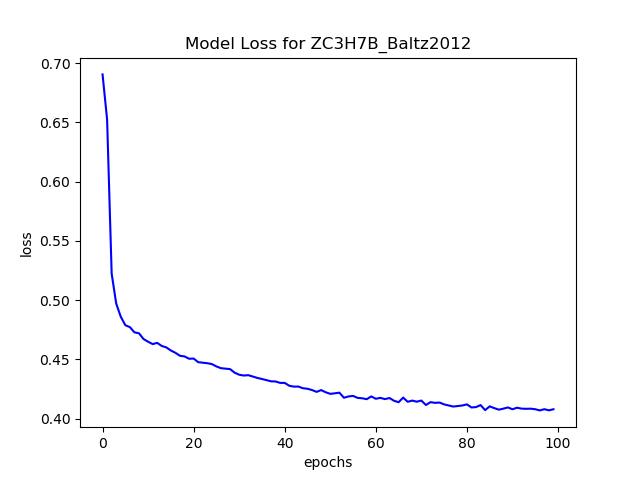
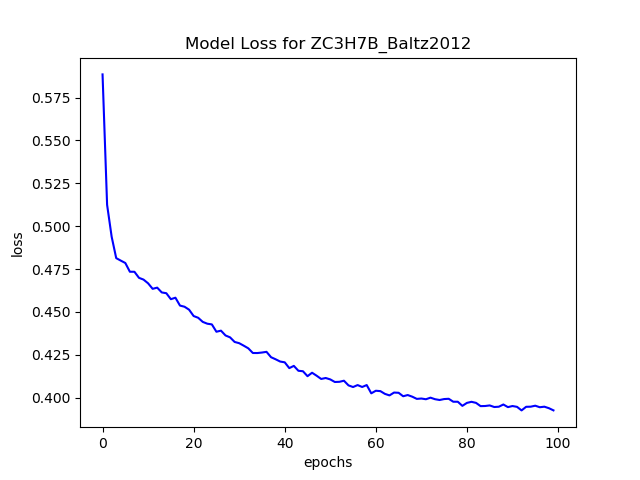
完善CNN_ss模型的train_test_epoch

diff --git a/main.py b/main.py
@@ -1117,34 +1117,59 @@ def plot_epochs(protein='all', train=True, model_type='CNN', n_epochs=100, info=
 
 
 # 用于存储所有数据集100次迭代中每次的模型参数结果，方便测试100次迭代中每次测试集的loss
-def epochs_pkl():
-    for protein in proteins:
+@cal_time
+def epochs_pkl(info=1, model_type='CNN'):
+    """
+    :param info: 指定所使用的特征信息种类
+    :param model_type: 指定使用的网络模型
+    :return:
+    """
+    for count, protein in enumerate(proteins):
         data = load_data(protein=protein, train=True)
         x_data, y_data = get_bag_data(data=data)
-        x_data = x_data[0]
-        model = CNN(nb_filter=16, num_classes=2, kernel_size=(4, 10), pool_size=(1, 3), window_size=507,
-                    hidden_size=200, stride=(1, 1), padding=0, drop=True)
-        if gpu:
+        if info == 1:
+            x_data = x_data[0]
+            model = CNN(nb_filter=16, num_classes=2, kernel_size=(4, 10), pool_size=(1, 3), window_size=507,
+                        hidden_size=200, stride=(1, 1), padding=0, drop=True)
             model = model.cuda()
 
-        x_data = np.array(x_data)
-        y_data = np.array(y_data)
+            train_set = TensorDataset(torch.from_numpy(np.array(x_data).astype(np.float32)),
+                                      torch.from_numpy(np.array(y_data).astype(np.float32)).long().view(-1))
+            train_loader = DataLoader(dataset=train_set, batch_size=128, shuffle=True)
+            pkl_file = 'CNN_s_pkl/'
+        else:
+            if model_type == 'CNN':
+                model = CNN_ss(nb_filter=16, num_classes=2, seq_kernel_size=(4, 10), st_kernel_size=(5, 10),
+                               pool_size=(1, 3), seq_window_size=507, st_window_size=509, hidden_size=200,
+                               stride=(1, 1), padding=0, drop=True)
+                pkl_file = 'CNN_ss_pkl/'
+            else:
+                model = CNN_BLSTM_ss(nb_filter=16, num_classes=2, seq_kernel_size=(4, 10), st_kernel_size=(5, 10),
+                                     pool_size=(1, 3), seq_window_size=507, st_window_size=509, hidden_size=200,
+                                     stride=(1, 1), padding=0, drop=True)
+                pkl_file = 'CNN_BLSTM_ss_pkl/'
+
+            model = model.cuda()
+            train_set = MyDataSet(torch.from_numpy(np.array(x_data[0]).astype(np.float32)),
+                                  torch.from_numpy(np.array(x_data[1]).astype(np.float32)),
+                                  torch.from_numpy(y_data.astype(np.float32)).long().view(-1))
+            train_loader = DataLoader(dataset=train_set, batch_size=128, shuffle=True)
 
         optimizer = torch.optim.Adam(model.parameters(), lr=0.001, weight_decay=0.0001)
         loss_f = nn.CrossEntropyLoss()
-        train_set = TensorDataset(torch.from_numpy(x_data.astype(np.float32)),
-                                  torch.from_numpy(y_data.astype(np.float32)).long().view(-1))
-        train_loader = DataLoader(dataset=train_set, batch_size=128, shuffle=True)
         model.train()
 
         for epoch in range(100):
             total_loss = []
             for idx, (x, y) in enumerate(train_loader):
-                x_v = Variable(x)
-                y_v = Variable(y)
-                if gpu:
-                    x_v = x_v.cuda()
-                    y_v = y_v.cuda()
+                if len(x) != 2:
+                    x_v = Variable(x).cuda()
+                    y_v = Variable(y).cuda()
+                else:
+                    x0 = Variable(x[0]).cuda()
+                    x1 = Variable(x[1]).cuda()
+                    x_v = [x0, x1]
+                    y_v = Variable(y).cuda()
 
                 optimizer.zero_grad()
                 y_pre = model(x_v)
@@ -1156,9 +1181,10 @@ def epochs_pkl():
                 del loss
 
             loss = sum(total_loss) / len(total_loss)
-
             print(protein + '第%d次迭代的loss为:' % (epoch + 1), loss)
-            torch.save(model.state_dict(), '../Results/CNN_s_pkl/' + str(epoch+1) + '/' + protein + '_model.pkl')
+            torch.save(model.state_dict(), '../Results/' + pkl_file + str(epoch+1) + '/' + protein + '_model.pkl')
+
+        print('===已经完成%d/24===' % (count+1))
 
 
 # 绘制测试集在不同迭代次数下的ACC曲线
@@ -1217,35 +1243,71 @@ def plot_test_acc():
 
 # 将train_loss和test_loss绘制在一个图中
 @cal_time
-def train_test_loss():
+def train_test_loss(info=1, model_type='CNN'):
+    """
+    :param info: 指定所使用的特征信息种类
+    :param model_type: 指定使用的网络模型
+    :return:
+    """
     test_total_loss = []
+    loss = nn.CrossEntropyLoss()
     for count, protein in enumerate(proteins):
         test_total_loss.append([])
         data = load_data(protein=protein, train=False)
         x_data, y_data = get_bag_data(data=data)
-        x_data = x_data[0]
-        test_set = TensorDataset(torch.from_numpy(np.array(x_data).astype(np.float32)),
-                                 torch.from_numpy(y_data.astype(np.float32)).long().view(-1))
-        test_loader = DataLoader(dataset=test_set, batch_size=128, shuffle=False)
-        model = CNN(nb_filter=16, num_classes=2, kernel_size=(4, 10), pool_size=(1, 3), window_size=507,
-                    hidden_size=200, stride=(1, 1), padding=0, drop=False)
-        model = model.cuda()
-        loss = nn.CrossEntropyLoss()
-        for epoch in range(1, 101):
-            model_file = '../Results/CNN_s_pkl/' + str(epoch) + '/' + protein + '_model.pkl'
-            torch.cuda.empty_cache()
-            model.load_state_dict(torch.load(model_file))
-            temp_loss_for_one_epoch = []
-            for x, y in test_loader:
-                x_v = Variable(x).cuda()
-                y_v = Variable(y).cuda()
-                y_pred = model(x_v)
-                temp_loss_for_one_epoch.append(loss(y_pred, y_v).item())
-            test_total_loss[count].append(sum(temp_loss_for_one_epoch) / len(temp_loss_for_one_epoch))
-            print('%s测试集第%d次迭代已经完成' % (protein, epoch))
-        print('========')
-        print('%s测试集已经完成loss的计算' % protein)
-        print('========')
+        if info == 1:
+            x_data = x_data[0]
+            test_set = TensorDataset(torch.from_numpy(np.array(x_data).astype(np.float32)),
+                                     torch.from_numpy(y_data.astype(np.float32)).long().view(-1))
+            test_loader = DataLoader(dataset=test_set, batch_size=128, shuffle=False)
+            model = CNN(nb_filter=16, num_classes=2, kernel_size=(4, 10), pool_size=(1, 3), window_size=507,
+                        hidden_size=200, stride=(1, 1), padding=0, drop=False)
+            model = model.cuda()
+            for epoch in range(1, 101):
+                model_file = '../Results/CNN_s_pkl/' + str(epoch) + '/' + protein + '_model.pkl'
+                torch.cuda.empty_cache()
+                model.load_state_dict(torch.load(model_file))
+                temp_loss_for_one_epoch = []
+                for x, y in test_loader:
+                    x_v = Variable(x).cuda()
+                    y_v = Variable(y).cuda()
+                    y_pred = model(x_v)
+                    temp_loss_for_one_epoch.append(loss(y_pred, y_v).item())
+                test_total_loss[count].append(sum(temp_loss_for_one_epoch) / len(temp_loss_for_one_epoch))
+                print('%s测试集第%d次迭代已经完成' % (protein, epoch))
+            print('========')
+            print('%s测试集已经完成loss的计算     %d/24' % (protein, count))
+            print('========')
+
+        else:
+            if model_type == 'CNN':
+                test_set = MyDataSet(torch.from_numpy(np.array(x_data[0]).astype(np.float32)),
+                                     torch.from_numpy(np.array(x_data[1]).astype(np.float32)),
+                                     torch.from_numpy(y_data.astype(np.float32)).long().view(-1))
+                test_loader = DataLoader(dataset=test_set, batch_size=128, shuffle=False)
+                model = CNN_ss(nb_filter=16, num_classes=2, seq_kernel_size=(4, 10), st_kernel_size=(5, 10),
+                               pool_size=(1, 3), seq_window_size=507, st_window_size=509, hidden_size=200,
+                               stride=(1, 1), padding=0, drop=False)
+                model = model.cuda()
+                for epoch in range(1, 101):
+                    model_file = '../Results/CNN_ss_pkl/' + str(epoch) + '/' + protein + '_model.pkl'
+                    torch.cuda.empty_cache()
+                    model.load_state_dict(torch.load(model_file))
+                    temp_loss_for_one_epoch = []
+                    for x, y in test_loader:
+                        x_v = Variable(x).cuda()
+                        y_v = Variable(y).cuda()
+                        y_pred = model(x_v)
+                        temp_loss_for_one_epoch.append(loss(y_pred, y_v).item())
+                    test_total_loss[count].append(sum(temp_loss_for_one_epoch) / len(temp_loss_for_one_epoch))
+                    print('%s测试集第%d次迭代已经完成' % (protein, epoch))
+                print('========')
+                print('%s测试集已经完成loss的计算     %d/24' % (protein, count))
+                print('========')
+
+            else:
+                print('暂未完成')
+                return
 
     print('所有测试集的loss已经计算完成')
     test_loss = [0] * 100
@@ -1254,7 +1316,9 @@ def train_test_loss():
             test_loss[i] += test_total_loss[j][i]
     test_loss = [i / len(proteins) for i in test_loss]
 
-    train_loss = plot_epochs(protein='all', train=True)
+    print('========')
+    print('开始计算训练集的loss')
+    train_loss = plot_epochs(protein='all', train=True, info=info)
     x = list(range(1, 101))
     plt.figure()
     plt.title('Model Loss')
@@ -1262,8 +1326,15 @@ def train_test_loss():
     plt.ylabel('loss')
     plt.plot(x, train_loss, color='red', label='train_loss')
     plt.plot(x, test_loss, color='blue', label='test_loss')
-    plt.legend(loc='lower right')
-    plt.savefig('epochs/' + 'train_test_loss.png')
+    plt.legend(loc='upper right')
+    if info == 1:
+        filename = 'CNN_s'
+    else:
+        if model_type == 'CNN':
+            filename = 'CNN_ss'
+        else:
+            filename = 'CNN_BLSTM_ss'
+    plt.savefig('epochs/' + filename + '/train_test_loss.png')
 
 
 if __name__ == '__main__':
@@ -1281,4 +1352,4 @@ if __name__ == '__main__':
     #     validation(protein=protein)
     #     print('====第%d个已经完成====: %s' % ((count + 1), protein))
 
-    train_test_loss()
+    train_test_loss(info=2, model_type='CNN')
